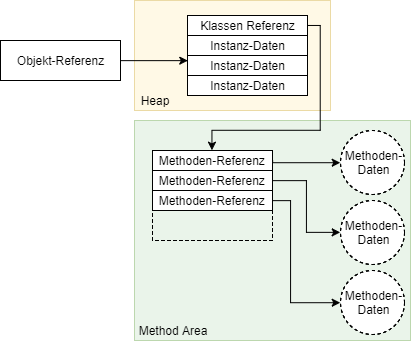
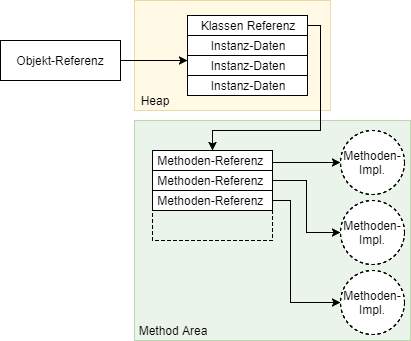
JVM Grundlagen überarbeitet

diff --git a/Dokument/Seminararbeit.tex b/Dokument/Seminararbeit.tex
@@ -37,6 +37,7 @@ Diese Seminararbeit beschreibt wie die Java Virtual Machine Objektorientierte-Ko
 Die Java Virtual Machine ist eine Laufzeitumgebung welche es ermöglicht Bytecode auszuführen. Aus verschiedenen Programmiersprachen (Beispiel Java, Kotlin, ...) kann  Bytecode erzeugt werden. Die Ausführung des Codes wird durch die Portabilität der Java Virtual Machine unabhängig von der zugrunde liegenden Rechnerarchitektur (vorausgesetzt die Java Virtual Machine kann auf dieser betrieben werden). Im Fokus dieses Dokuments steht der Umgang der Java Virtual Machine mit objektorientierten Konstrukten. Dazu wird auf die Struktur der Java Klassen-Dateien, die Java Virtual Machine Grundlagen, Feldzugriffe, Methodenaufrufe und Typüberprüfungen eingegangen.
 
 \section{Aufbau der class Datei}
+\label{chKlassenDatei}
 Der Programmcode der Hochsprachen wird beim Kompilieren in Bytecode umgewandelt und für jede verwendete Klasse wird eine entsprechende Klassen-Datei (.class) angelegt. Diese Dateien haben eine klar definierte Struktur die in Tabelle \ref{tab1} aufgelistet ist und auf die im Folgenden eingegangen wird.
 
 
@@ -78,22 +79,21 @@ Die Datei startet zunächst mit einem Magic welches die Datei als eine Java-Klas
 \section{Java Virtual Machine Grundlagen Stack und Heap}
 
 % Quelle: JVM SE Specification!
-Die Java Virtual Machine besteht aus verschiedenen Bereichen wobei ich im folgenden besonders den Java Virtual Machine Stack und den Heap hervorheben möchte.
+Die Java Virtual Machine besteht aus verschiedenen Bereichen, wobei im Folgenden besonders der Java Virtual Machine Stack und Heap beschrieben wird.
 
 \subsection{Stack}
-Jeder Thread besitzt einen eigenen Java Virtual Machine Stack der zeitgleich mit der Threaderstellung entsteht. Dieser Stack enthält \verb|Frames|. Bei jedem Methodenaufruf wird ein neues Frame erstellt und auf dem Stack abgelegt. Ein Frame besteht aus einem Operanden-Stack, einem Array von lokalen Variablen und einer Referenz zum Runtime Constant-Pool. Der Operanden-Stack ist ein LIFO-Stack der durch Opcodes manipuliert werden kann. Das Array der lokalen Variablen hat zwei Funktionen. Zunächst enthält es bei einem Methodenaufruf die übergebenen Parameter. Handelt es sich bei einem Methodenaufruf um eine Instanz-Methode, so ist der erste Wert in dem Array (Index 0) eine Referenz auf das beim Aufruf verwendete Objekt (this-Referenz). Die zweite Funktion ist das Speichern der Werte von lokalen Variablen. 
+Bei der Ausführung von Programmen in einer höheren Programmiersprache existieren meist mehrere Threads parallel. Dabei stellt ein Thread einen sequentiellen Ablauf von Instruktionen dar. Auf der Ebene der Java Virtual Machine besitzt jeder Thread einen eigenen Java Virtual Machine Stack der zeitgleich mit der Threaderstellung entsteht. Mit diesen Stacks ist es möglich die parallelen Abläufe voneinander abzugrenzen. Ein solcher Stack enthält \verb|Frames|. Bei jedem Methodenaufruf wird ein neues Frame erstellt und auf dem Stack abgelegt. Ein Frame besteht aus einem Operanden-Stack, einem Array von lokalen Variablen und einer Referenz zum Runtime Constant-Pool. Der Runtime Constant-Pool ist ein Teil des Heap, dessen Beschreibung in Kapitel \ref{chHeap} erfolgt. Der Operanden-Stack ist ein LIFO-Stack der verschiedene Werte aufnehmen kann (Integer, Referenzen, Double, ...). Mit den Befehlen des Bytecodes, den sogenannten Opcodes, kann der Stack manipuliert werden. Die Java Virtual Machine definiert eine Reihe von Opcodes (Rechenoperationen, Methodenaufrufe, ...) mit denen es möglich ist Programmabläufe darzustellen. Das Array der lokalen Variablen hat zwei Funktionen. Zunächst enthält es bei einem Methodenaufruf die übergebenen Parameter. Handelt es sich bei einem Methodenaufruf um eine Instanz-Methode, so ist der erste Wert in dem Array (Index 0) eine Referenz auf das beim Aufruf verwendete Objekt (this-Referenz). Die zweite Funktion ist das Speichern der Werte von lokalen Variablen. 
 
 \subsection{Heap}
-In der Java Virtual Machine gibt es einen Heap den sich alle Threads teilen. Bei der Erstellung einer neuen Klassen-Instanz oder eines Arrays wird in diesem Bereich Speicher allokiert. Die Spezifikation der Java Virtual Machine macht keine Vorschriften oder Annahmen über die Repräsentation von Objekten im Heap, da dies ein wesentlicher Aspekt des Gesamstdesigns einer Java Virtual Machine Implementation ist. Somit bleibt die konkrete Umsetzung dem Hersteller überlassen \cite{Lindholm.21.08.2018}. Vorgeschrieben ist jedoch, dass das Objekt über eine Referenz auffindbar sein muss. Außerdem muss das Objekt Instanz-Variablen sichern und eine Referenz auf die zugrundeliegende Klasse beinhalten. In den meisten Implementationen wird für letzteres meist ein Verweis auf die \textit{Method Area} genutzt. Dieser Verweis auf die Klasse wird beispielsweise notwendig wenn die potenziell aufrufbaren Methoden ermittelt werden müssen. Zwei potenzielle Umsetzungen für diesen Verweis sind in Abbildung \ref{fig:objektverweise} zu sehen. Eine Möglichkeit ist es, dass Referenzen zunächst auf einen sog. Handle-Pool verweisen. Ein Eintrag dort beinhaltet zwei Zeiger: Einen auf das Objekt mit den Instanz-Daten und einen weiteren der auf die zugrundeliegende Klasse verweist. Ein anderer Ansatz ist, dass den Instanz-Daten eine Referenz auf die Klassen-Daten vorangestellt ist \cite{Venners.1999}.
+\label{chHeap}
+In der Java Virtual Machine gibt es einen Heap den sich alle Threads teilen. Bei der Erstellung einer neuen Klassen-Instanz oder eines Arrays wird in diesem Bereich Speicher allokiert. Die Spezifikation der Java Virtual Machine macht keine Vorschriften oder Annahmen über die Repräsentation von Objekten im Heap, da dies ein wesentlicher Aspekt des Gesamstdesigns einer Java Virtual Machine Implementation ist. Somit bleibt die konkrete Umsetzung dem Hersteller überlassen \cite{Lindholm.21.08.2018}. Vorgeschrieben ist jedoch, dass das Objekt über eine Referenz auffindbar sein muss. Außerdem muss das Objekt Instanz-Variablen sichern und eine Referenz auf die zugrundeliegende Klasse beinhalten. In den meisten Implementationen wird für letzteres meist ein Verweis auf die \textit{Method Area} genutzt, welche einen weiterer Bestandteil des Heaps ist und Informationen zu Klassen und Interfaces enthält. Der Verweis auf die Klasseninformation wird beispielsweise notwendig, wenn die potenziell aufrufbaren Methoden ermittelt werden müssen. Zwei potenzielle Umsetzungen für diesen Verweis sind in Abbildung \ref{fig:objektverweise} zu sehen. Eine Möglichkeit ist es, dass Referenzen zunächst auf einen sog. Handle-Pool verweisen. Ein Eintrag dort beinhaltet zwei Zeiger: Einen auf das Objekt mit den Instanz-Daten und einen weiteren der auf die zugrundeliegende Klasse verweist. Ein anderer Ansatz ist, dass den Instanz-Daten eine Referenz auf die Klassen-Daten vorangestellt ist \cite{Venners.1999}.
 \begin{figure}[htbp] 
   \centering
      \includegraphics[width=0.5\textwidth]{Grafiken/ObjektReferenzKlasse.png}
   \caption{Varianten von Objektverweisen}
   \label{fig:objektverweise}
 \end{figure}
-Die Java Virtual Machine Spezifikation definiert nur Instruktionen um Speicher zu allokieren, aber nicht um diesen auch wieder freizugeben. Eine Implementation der Java Virtual Machine muss selber prüfen ob Objekte die nicht mehr referenziert werden freigegeben werden können. Die Implementation des Garbage Collectors ist jedoch nicht vorgeschrieben, sodass sich die Umsetzung je nach genutzter Java Virtual Machine unterscheiden kann.\textit{java2buch} 
-
-Neben dem Speicher für Strukturen wie Instanzen und Arrays gibt es im Heap noch einen weiteren Bereich der \textit{Method Area} genannt wird. Dieser Bereich verwaltet zum Beispiel folgende Informationen von Klassen, beziehungsweise Interfaces: Runtime Constant-Pool, Feld- und Methodendaten, Methodencode, Konstruktorcode und Methoden-Tabellen. Beim Runtime Constant Pool handelt es sich um eine Laufzeit-Repräsentation des in den Klassendateien definierten Constant Pools. Dieser Pool wird angelegt sobald eine Klasse oder ein Interface erstellt wird. Wird eine nicht abstrakte Klasse durch die Java Virtual Machine geladen, so wird zeitgleich eine Methoden-Tabelle erstellt und mit der geladenen Klasse verknüpft. Bei dieser Tabelle handelt es sich um ein Array von Referenzen zu allen Instanz-Methoden die potenziell auf einer Instanz aufgerufen werden können. Das schließt auch Methoden ein die von anderen Klassen geerbt wurden. Dabei ist laut der Spezifikation jedoch die grundsätzliche Umsetzung, beziehungsweise die Art der Implementation nicht vorgegeben. Eine potenzielle Umsetzung ist in Abbildung \ref{fig:linkZurMethodenTabelle} zu sehen. Durch die Objekt-Referenz kann auf die Daten im Heap zugegriffen werden. Dort wird eine hinterlegte Klassen-Referenz genutzt um die Klasse in der \textit{Method Area} zu identifizieren. Dort kann auf die Methoden-Tabelle zugegriffen werden, über die letztendlich auf die jeweiligen Methoden verwiesen wird.
+Neben dem Speicher für Strukturen wie Instanzen und Arrays gibt es im Heap noch die bereits erwähnte \textit{Method Area}, welche im folgenden noch detaillierter beschrieben wird. In der Java Virtual Machine Spezifikation werden dort Informationen von Klassen, Interfaces, Runtime Constant-Pool, Feld- und Methodendaten, Methodencode, Konstruktorcode und Methoden-Tabellen verwaltet. Beim Runtime Constant Pool handelt es sich um eine Laufzeit-Repräsentation des in den Klassendateien definierten Constant Pools (siehe Kapitel \ref{chKlassenDatei}). Dieser Runtime Pool wird angelegt sobald eine Klasse oder ein Interface erstellt wird. Wird eine nicht abstrakte Klasse durch die Java Virtual Machine geladen, so wird zeitgleich eine Methoden-Tabelle erstellt und mit der geladenen Klasse verknüpft. Bei dieser Tabelle handelt es sich um ein Array von Referenzen zu allen Instanz-Methoden die potenziell auf einer Instanz aufgerufen werden können. Das schließt auch Methoden ein die von anderen Klassen geerbt wurden. Dabei ist laut der Spezifikation jedoch die grundsätzliche Umsetzung, beziehungsweise die Art der Implementation nicht vorgegeben. Eine potenzielle Umsetzung ist in Abbildung \ref{fig:linkZurMethodenTabelle} zu sehen. Durch die Objekt-Referenz kann auf die Daten im Heap zugegriffen werden. Dort wird eine hinterlegte Klassen-Referenz genutzt um die Klasse in der \textit{Method Area} zu identifizieren. Dort kann auf die Methoden-Tabelle zugegriffen werden, über die letztendlich auf die jeweiligen Methoden verwiesen wird.
 \begin{figure}[htbp] 
   \centering
      \includegraphics[width=0.45\textwidth]{Grafiken/LinkZurMethodenTabelle.png}
@@ -101,7 +101,7 @@ Neben dem Speicher für Strukturen wie Instanzen und Arrays gibt es im Heap noch
   \label{fig:linkZurMethodenTabelle}
 \end{figure}
 
-
+Die Java Virtual Machine Spezifikation definiert nur Instruktionen um Speicher zu allokieren, aber nicht um diesen auch wieder freizugeben. Eine Implementation der Java Virtual Machine muss selber prüfen ob Objekte die nicht mehr referenziert werden freigegeben werden können. Die Implementation des Garbage Collectors ist jedoch nicht vorgeschrieben, sodass sich die Umsetzung je nach genutzter Java Virtual Machine unterscheiden kann. \cite{Venners.1999} 
 
 \section{Methodenaufrufe}
 \subsection{Ablauf eines Methodenaufrufs}
